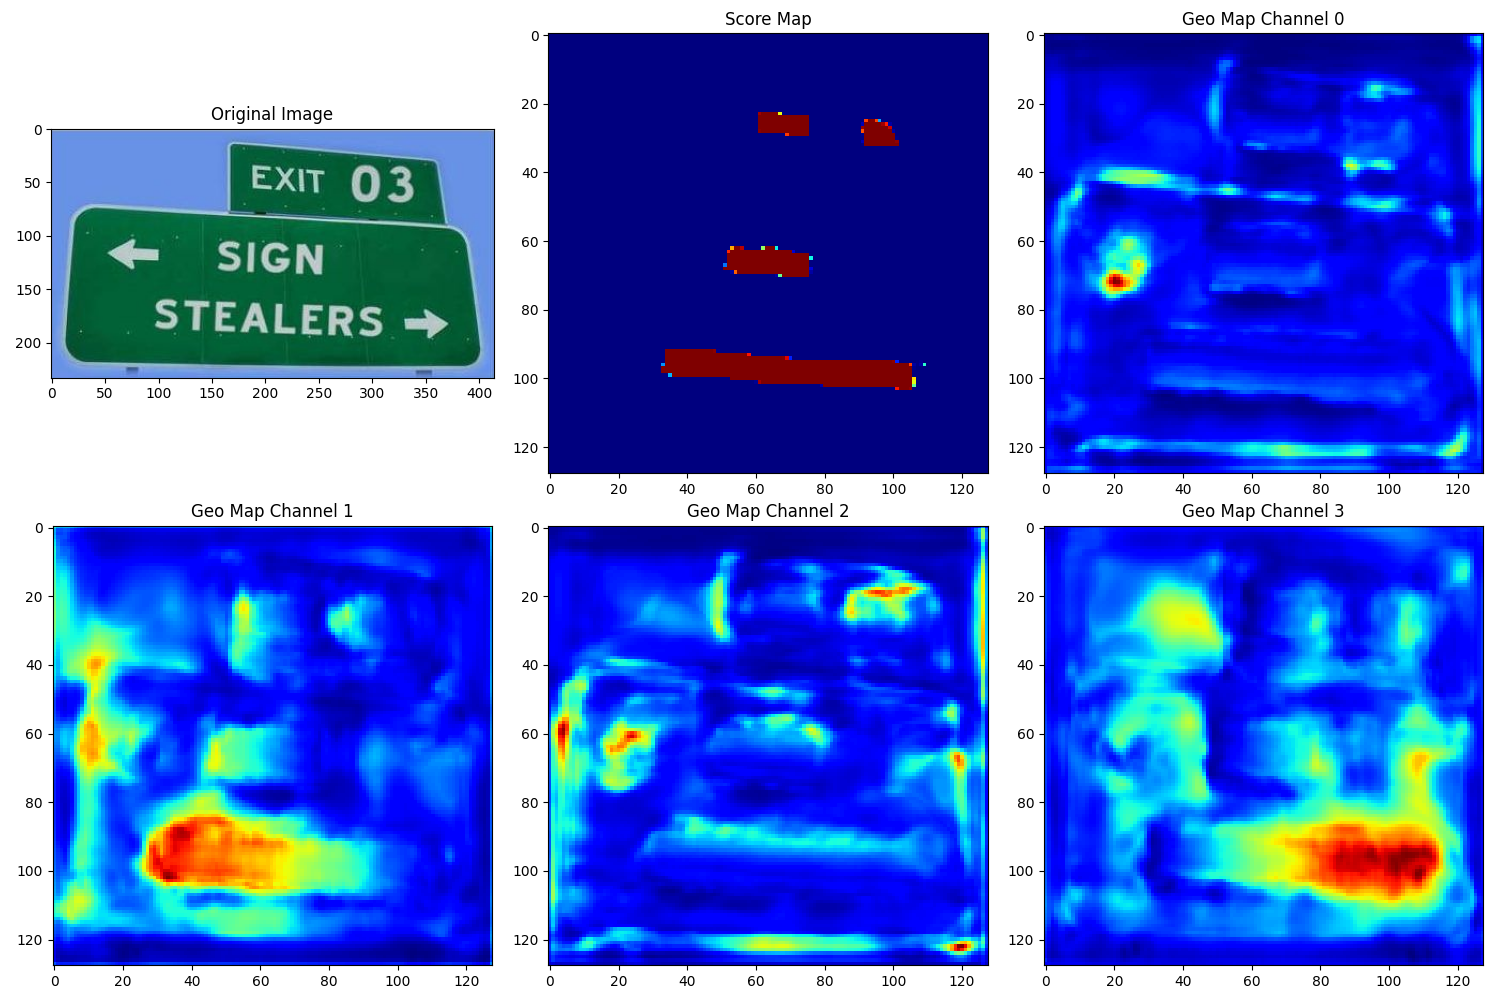
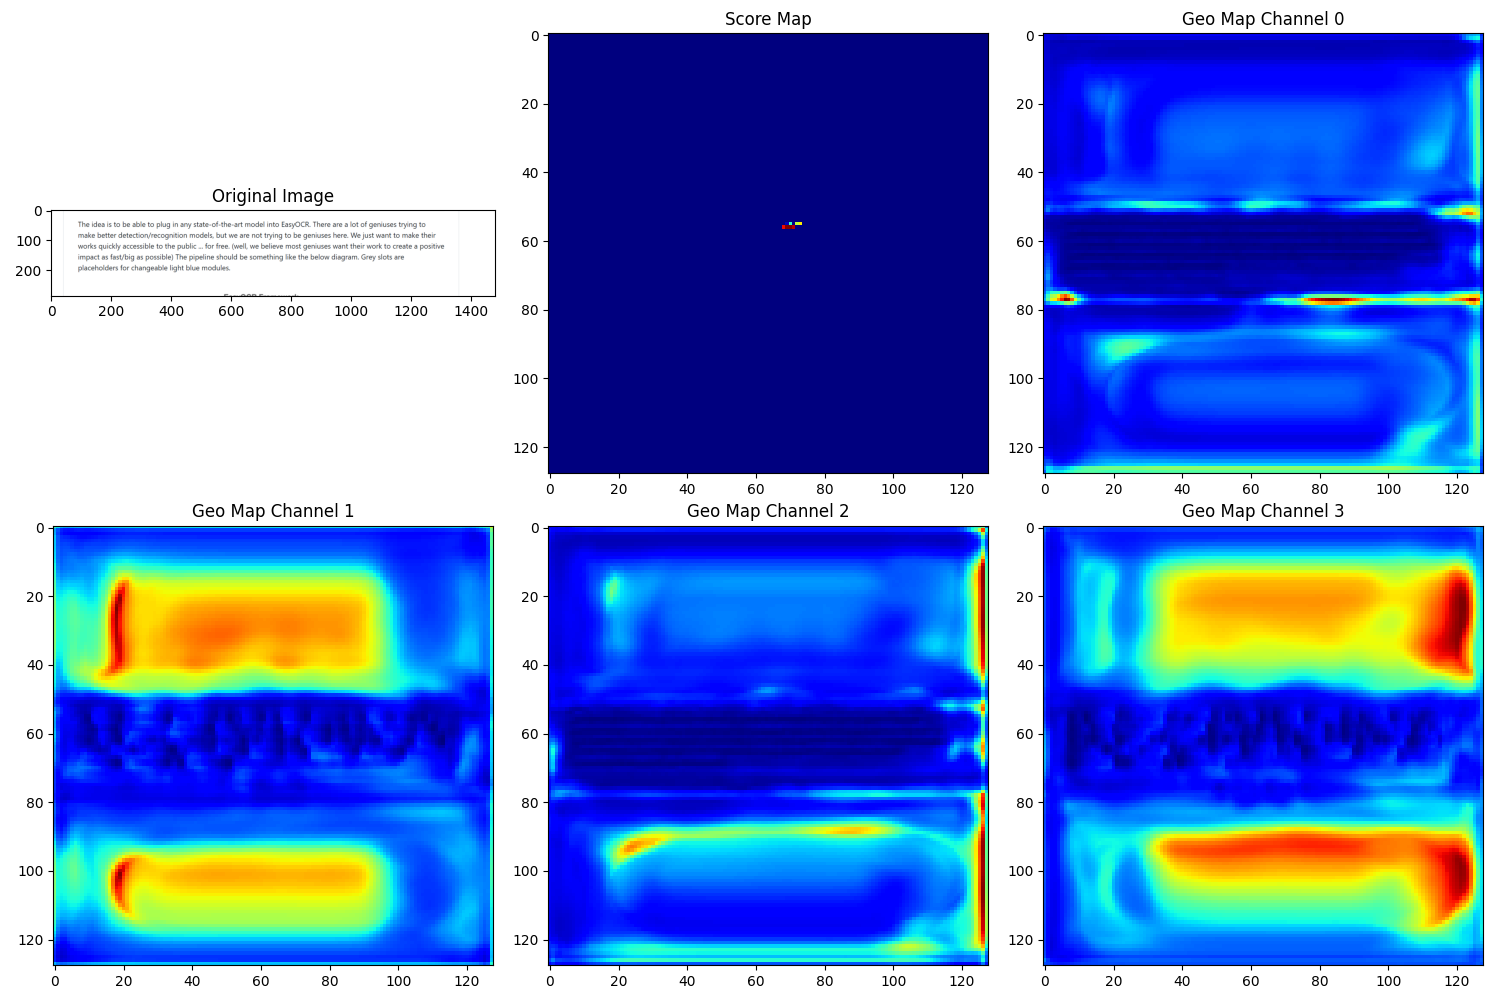
basic east to easyocr implementation

diff --git a/main.py b/main.py
@@ -2,25 +2,75 @@ import numpy as np
 import cv2
 import torch
 import matplotlib.pyplot as plt
+import easyocr
 
 from east import EastModel, input_size
+
+def resize_with_padding(image, target_size):
+    h, w, _ = image.shape
+    scale = min(target_size / w, target_size / h)
+    new_w, new_h = int(w * scale), int(h * scale)
+    resized_img = cv2.resize(image, (new_w, new_h))
+    padded_img = np.zeros((target_size, target_size, 3), dtype=np.uint8)
+    top = (target_size - new_h) // 2
+    left = (target_size - new_w) // 2
+    padded_img[top:top+new_h, left:left+new_w] = resized_img
+    return padded_img, scale, top, left, new_w, new_h
+
+def decode_bounding_boxes(score_map, geo_map, score_thresh=0.5):
+    h, w = score_map.shape
+    boxes = []
+    scores = []
+    
+    for y in range(h):
+        for x in range(w):
+            if score_map[y, x] >= score_thresh:
+                top, right, bottom, left = geo_map[:4, y, x]
+                x1, y1 = x * 4 - left, y * 4 - top
+                x2, y2 = x * 4 + right, y * 4 + bottom
+                boxes.append([int(x1), int(y1), int(x2), int(y2)])
+                scores.append(float(score_map[y, x]))
+    
+    return np.array(boxes), np.array(scores)
+
+def non_maximum_suppression(boxes, scores, iou_threshold=0.3):
+    if len(boxes) == 0:
+        return []
+    
+    x1, y1, x2, y2 = boxes[:, 0], boxes[:, 1], boxes[:, 2], boxes[:, 3]
+    areas = (x2 - x1 + 1) * (y2 - y1 + 1)
+    indices = np.argsort(scores)[::-1]
+    
+    keep = []
+    while len(indices) > 0:
+        i = indices[0]
+        keep.append(i)
+        xx1 = np.maximum(x1[i], x1[indices[1:]])
+        yy1 = np.maximum(y1[i], y1[indices[1:]])
+        xx2 = np.minimum(x2[i], x2[indices[1:]])
+        yy2 = np.minimum(y2[i], y2[indices[1:]])
+        
+        w = np.maximum(0, xx2 - xx1 + 1)
+        h = np.maximum(0, yy2 - yy1 + 1)
+        inter = w * h
+        iou = inter / (areas[i] + areas[indices[1:]] - inter)
+        
+        indices = indices[np.where(iou <= iou_threshold)[0] + 1]
+    
+    return boxes[keep]
 
 model = EastModel(None)
 model_data = torch.load("east.pt", map_location=torch.device("cpu"))
 model.load_state_dict(model_data)
 model.eval()
 
-img_path = 'test2.jpg'
+img_path = 'img18.jpg'
 original_img = cv2.imread(img_path)
 
-img_resized = cv2.resize(original_img, (input_size, input_size))
-
+img_resized, scale, top_pad, left_pad, new_w, new_h = resize_with_padding(original_img, input_size)
 img_rgb = cv2.cvtColor(img_resized, cv2.COLOR_BGR2RGB)
-
 img_normalized = img_rgb.astype(np.float32) / 255.0
-
-# Convert to PyTorch tensor and add batch dimension
-img_tensor = torch.from_numpy(img_normalized).permute(2, 0, 1).unsqueeze(0)  # [1, 3, 512, 512]
+img_tensor = torch.from_numpy(img_normalized).permute(2, 0, 1).unsqueeze(0)
 
 with torch.no_grad():
     score, geo = model(img_tensor)
@@ -28,32 +78,37 @@ with torch.no_grad():
 score_np = score.squeeze().cpu().numpy()
 geo_np = geo.squeeze().cpu().numpy()
 
-print(f"Score shape: {score_np.shape}")
-print(f"Geo shape: {geo_np.shape}")
+boxes, scores = decode_bounding_boxes(score_np, geo_np)
+nms_boxes = non_maximum_suppression(boxes, scores)
 
+# get back to original shape
+scaled_boxes = []
+for x1, y1, x2, y2 in nms_boxes:
+    x1 = int((x1 - left_pad) / scale)
+    y1 = int((y1 - top_pad) / scale)
+    x2 = int((x2 - left_pad) / scale)
+    y2 = int((y2 - top_pad) / scale)
+    scaled_boxes.append((x1, y1, x2, y2))
+
+reader = easyocr.Reader(['en'])
+recognized_texts = []
+for (x1, y1, x2, y2) in scaled_boxes:
+    text_roi = original_img[y1:y2, x1:x2]
+    result = reader.readtext(text_roi, detail=0)
+    if result:
+        recognized_texts.append((x1, y1, x2, y2, result[0]))
+
+for (x1, y1, x2, y2, text) in recognized_texts:
+    cv2.rectangle(original_img, (x1, y1), (x2, y2), (0, 255, 0), 2)
+    cv2.putText(original_img, text, (x1, y1 - 5), cv2.FONT_HERSHEY_SIMPLEX, 0.5, (0, 255, 0), 2)
+
+print(recognized_texts)
 plt.figure(figsize=(15, 10))
-
-plt.subplot(2, 3, 1)
-plt.title("Original Image")
 plt.imshow(cv2.cvtColor(original_img, cv2.COLOR_BGR2RGB))
-
-plt.subplot(2, 3, 2)
-plt.title("Score Map")
-plt.imshow(score_np, cmap='jet')
-
-# Display the first 4 channels of geo map (distances)
-for i in range(4):
-    plt.subplot(2, 3, 3+i)
-    plt.title(f"Geo Map Channel {i}")
-    plt.imshow(geo_np[i], cmap='jet')
-
-plt.tight_layout()
-plt.savefig('east_visualization2.png')
+plt.title("Detected Text")
 plt.show()
 
-print("Visualization saved to east_visualization.png")
-
-cv2.imshow("Original Image", original_img)
+cv2.imwrite("text_detection_result.png", original_img)
+cv2.imshow("Detected Text", original_img)
 cv2.waitKey(0)
 cv2.destroyAllWindows()
-

diff --git a/ocr_test.py b/ocr_test.py
@@ -1,0 +1,19 @@
+import cv2
+import easyocr
+
+img_path = 'img18.jpg'
+image = cv2.imread(img_path)
+
+reader = easyocr.Reader(['en'])
+results = reader.readtext(img_path)
+
+for (bbox, text, prob) in results:
+    (x1, y1), (x2, y2), (x3, y3), (x4, y4) = bbox 
+    x_min, y_min = int(min(x1, x2, x3, x4)), int(min(y1, y2, y3, y4))
+    x_max, y_max = int(max(x1, x2, x3, x4)), int(max(y1, y2, y3, y4))
+
+    cv2.rectangle(image, (x_min, y_min), (x_max, y_max), (0, 255, 0), 2)
+
+    cv2.putText(image, text, (x_min, y_min - 5), cv2.FONT_HERSHEY_SIMPLEX, 0.7, (0, 255, 0), 2)
+
+cv2.imwrite("output.jpg", image)
